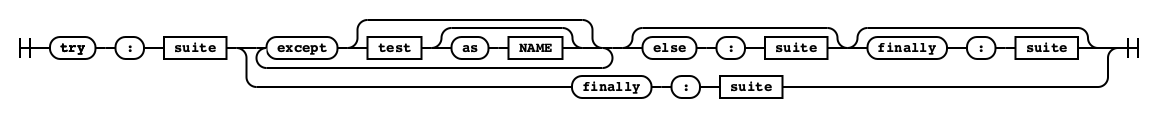
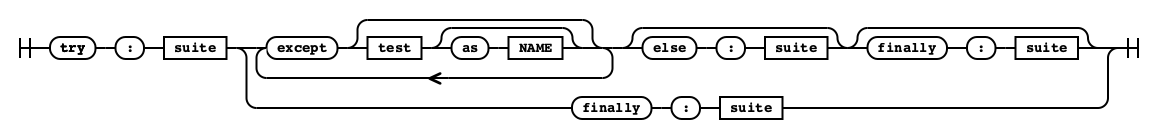
Add arrows to the loops

Changed region(s): [[0.0, 0.1271, 0.9948, 0.6102], [0.1865, 0.6356, 0.9637, 0.8644], [0.2798, 0.2034, 0.3109, 0.2288]]

diff --git a/railroad.py b/railroad.py
@@ -196,6 +196,10 @@ DEFAULT_STYLE = '''\
 		font:bold 14px monospace;
 		text-anchor:middle;
 	}
+	svg.railroad-diagram text.arrow {
+		font:bold 24px monospace;
+		text-anchor:middle;
+	}
 	svg.railroad-diagram text.label{
 		text-anchor:start;
 	}
@@ -1060,6 +1064,29 @@ class End(DiagramItem):
 
 	def __repr__(self):
 		return 'End(type=%r)' % self.type
+
+
+class Arrow(DiagramItem):
+	def __init__(self, text, ):
+		DiagramItem.__init__(self, 'g', {'class': 'arrow'})
+		self.text = text
+		self.width = len(text) * CHAR_WIDTH + 20
+		self.up = 11
+		self.down = 11
+		self.needsSpace = True
+		addDebug(self)
+
+	def __repr__(self):
+		return 'Arrow(%r)' % (self.text)
+
+	def format(self, x, y, width):
+		leftGap, rightGap = determineGaps(width, self.width)
+		# Hook up the two sides if self is narrower than its stated width.
+		Path(x, y).h(leftGap + self.width).addTo(self)
+		Path(x + leftGap + self.width, y).h(rightGap).addTo(self)
+		text = DiagramItem('text', {'x': x + leftGap + self.width / 2, 'y': y + 8, 'class': 'arrow'}, self.text)
+		text.addTo(self)
+		return self
 
 
 class Terminal(DiagramItem):

diff --git a/main.py b/main.py
@@ -21,7 +21,7 @@ TRY_STATEMENT = Diagram(
                                )
                            )
                        )
-                   )
+                   ), Arrow('<')
                ),
                Optional(
                    Sequence(
@@ -57,7 +57,7 @@ WITH_STATEMENT = Diagram(
     Optional(OneOrMore(Sequence(
         Terminal(', as'),
         NonTerminal('expr')
-    ))),
+    ), Arrow('<'))),
     Terminal(':'),
     NonTerminal('suite')
 )
